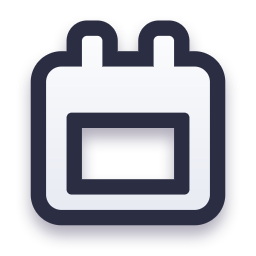
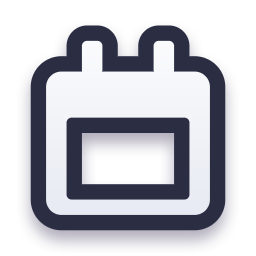
Icônes, blasons et badges centrés dans leur image ; son coupé en quittant l'appli (iOS Custom) ; consignes d'export iOS renforcées
Claude-Session: https://claude.ai/code/session_01GjF5pVKpWLsxsJrgQmasFX

diff --git a/Assets/Bascule/Scripts/Core/UiArt.cs b/Assets/Bascule/Scripts/Core/UiArt.cs
@@ -138,7 +138,30 @@ namespace Bascule.Core
         /// </summary>
         public static Shape Fit(Shape s, int n, float extent)
         {
-            float x0 = float.MaxValue, y0 = float.MaxValue, x1 = float.MinValue, y1 = float.MinValue;
+            if (!Bounds(s, n, out float x0, out float y0, out float x1, out float y1)) return s;
+            float c = n * 0.5f, mx = (x0 + x1) * 0.5f, my = (y0 + y1) * 0.5f;
+            float k = extent / Math.Max(x1 - x0, y1 - y0);
+            var d = s.D;
+            return new Shape((x, y) => d(mx + (x - c) / k, my + (y - c) / k) * k, 0, 0, n, n);
+        }
+
+        /// <summary>
+        /// Déplace une forme (même taille) pour que sa boîte réelle soit pile au centre de l'image n × n : posée dans une
+        /// pastille ronde ou un bouton, l'icône est au milieu (avant : la couronne, l'étoile, le calendrier étaient trop
+        /// hauts, le cœur trop bas, le film et le haut-parleur décalés à droite…).
+        /// </summary>
+        /// <param name="outline">Épaisseur du contour dessiné autour : c'est l'ensemble forme + contour qui est centré.</param>
+        public static Shape Centered(Shape s, int n, float outline = 0f)
+        {
+            if (!Bounds(outline > 0f ? s.Grow(outline) : s, n, out float x0, out float y0, out float x1, out float y1)) return s;
+            float dx = n * 0.5f - (x0 + x1) * 0.5f, dy = n * 0.5f - (y0 + y1) * 0.5f;
+            return Math.Abs(dx) < 0.01f && Math.Abs(dy) < 0.01f ? s : s.Move(dx, dy);
+        }
+
+        /// <summary>Boîte réelle d'une forme dans l'image n × n, mesurée sur une grille (les boîtes des formes combinées sont trop larges).</summary>
+        static bool Bounds(Shape s, int n, out float x0, out float y0, out float x1, out float y1)
+        {
+            x0 = y0 = float.MaxValue; x1 = y1 = float.MinValue;
             float step = n / 256f;
             for (float y = 0; y <= n; y += step)
                 for (float x = 0; x <= n; x += step)
@@ -147,12 +170,14 @@ namespace Bascule.Core
                         if (x < x0) x0 = x; if (x > x1) x1 = x;
                         if (y < y0) y0 = y; if (y > y1) y1 = y;
                     }
-            if (x1 < x0) return s;
-            float c = n * 0.5f, mx = (x0 + x1) * 0.5f, my = (y0 + y1) * 0.5f;
-            float k = extent / Math.Max(x1 - x0, y1 - y0);
-            var d = s.D;
-            return new Shape((x, y) => d(mx + (x - c) / k, my + (y - c) / k) * k, 0, 0, n, n);
+            return x1 >= x0;
         }
+
+        /// <summary>
+        /// Icônes qui gardent leur place dans l'image : le triangle « lecture », centré à l'œil sur son centre de gravité
+        /// (et qui sert de repère à la roue), et la main du tutoriel, dont le doigt montre un endroit précis.
+        /// </summary>
+        public static bool KeepsOwnCenter(Icon icon) => icon == Core.Icon.Play || icon == Core.Icon.Hand;
 
         /// <summary>Icône blanche cernée de sombre, avec ombre portée (128 px).</summary>
         public static Raster DrawIcon(Icon icon, int n = 128)
@@ -332,11 +357,28 @@ namespace Bascule.Core
             }
             // Icônes du menu du bas : même taille de dessin et centre exact, pour un rang parfaitement aligné.
             if (Array.IndexOf(MenuIcons, icon) >= 0) s = Fit(s, n, MenuGlyph * n);
+            else if (!KeepsOwnCenter(icon)) s = Centered(s, n, 6 * u);
             img.Fill(s.Grow(6 * u), Ink);
             img.Fill(s, Paint.Linear(Rgba.White, 0, n, Rgba.FromHex("#E3E6F0"), 0, 0));
             Toon.DropShadow(img, 0, -(int)(4 * u), (int)(3 * u) + 1, 0.35f);
             FadeBorder(img, Math.Max(2, n / 64));
             return img;
+        }
+
+        /// <summary>
+        /// Décale le dessin (en pixels entiers) pour que sa partie opaque soit au centre de l'image : un badge, un blason
+        /// ou un tas de pièces posé dans une pastille ou une case est au milieu (les blasons Challenger et Espoir étaient
+        /// 5 % trop bas, le tas de six pièces 5 % trop haut).
+        /// </summary>
+        static Raster CenterContent(Raster img)
+        {
+            int w = img.Width, h = img.Height, x0 = w, y0 = h, x1 = -1, y1 = -1;
+            for (int y = 0; y < h; y++)
+                for (int x = 0; x < w; x++)
+                    if (img.Pixels[y * w + x].a > 200) { if (x < x0) x0 = x; if (x > x1) x1 = x; if (y < y0) y0 = y; if (y > y1) y1 = y; }
+            if (x1 < 0) return img;
+            int dx = (int)Math.Round((w - 1 - x0 - x1) * 0.5f), dy = (int)Math.Round((h - 1 - y0 - y1) * 0.5f);
+            return dx == 0 && dy == 0 ? img : img.Offset(dx, dy);
         }
 
         /// <summary>
@@ -468,6 +510,7 @@ namespace Bascule.Core
             }
             foreach (var (x, y, r) in spots) Coin(img, x * n, y * n, r * n);
             Toon.DropShadow(img, 0, -(int)(n * 0.02f), (int)(n * 0.02f) + 1, 0.3f);
+            img = CenterContent(img);
             FadeBorder(img, Math.Max(2, n / 64));
             return img;
         }
@@ -512,6 +555,8 @@ namespace Bascule.Core
             img.Fill(Shape.Arc(mx, my, n * 0.095f, 0f, 360f, n * 0.012f), CoinEdge);
             img.Fill(StarShape(mx, my, n * 0.075f), Rgba.FromHex("#FFF3B0"), 1.2f);
             Toon.DropShadow(img, 0, -(int)(n * 0.02f), (int)(n * 0.02f) + 1, 0.3f);
+            img = CenterContent(img);
+            FadeBorder(img, Math.Max(2, n / 64));
             return img;
         }
 
@@ -683,6 +728,7 @@ namespace Bascule.Core
             }
             Toon.DropShadow(img, 0, -(int)(n * 0.02f), (int)(n * 0.02f) + 1, 0.32f);
             if (N != n) img = img.Resized(n, n);
+            img = CenterContent(img);
             FadeBorder(img, Math.Max(2, n / 64));
             return img;
         }
@@ -715,6 +761,8 @@ namespace Bascule.Core
             for (int i = -1; i <= 1; i++)
                 img.Fill(Shape.Circle(c + i * n * 0.08f, n * 0.165f, n * 0.022f), i < 1 ? Rgba.FromHex("#7C5CFF") : Rgba.FromHex("#D9D2EE"));
             Toon.DropShadow(img, 0, -(int)(n * 0.02f), (int)(n * 0.02f) + 1, 0.3f);
+            img = CenterContent(img);
+            FadeBorder(img, Math.Max(2, n / 64));
             return img;
         }
 

diff --git a/Assets/Bascule/Scripts/Editor/IosBuildPost.cs b/Assets/Bascule/Scripts/Editor/IosBuildPost.cs
@@ -92,18 +92,20 @@ namespace Bascule.EditorTools
         }
 
         /// <summary>
-        /// 1.5 : Unity arrête sa boucle d'affichage dès que l'appli n'est plus active (Centre de contrôle, notification
-        /// tirée), même en mode « Custom ». Un duel en direct se figeait alors : plus rien n'était envoyé, et le relais
-        /// coupe au bout de 10 s. On la laisse tourner tant que l'appli est seulement « inactive » (toujours à l'écran) ;
-        /// en arrière-plan elle s'arrête comme avant (iOS interdit d'y dessiner).
-        /// Si le texte attendu n'est pas trouvé (autre version de Unity), on ne touche à rien et on le dit.
-        /// </summary>
-        /// <summary>
-        /// En mode « Custom » sans cette retouche, le jeu ne tourne plus du tout quand l'appli devient inactive : les
-        /// sorties ne seraient plus enregistrées à temps. Erreur bien visible : ne pas envoyer ce build, prévenir Claude.
+        /// En mode « Custom » sans la retouche ci-dessous, le jeu ne tourne plus du tout quand l'appli devient inactive :
+        /// les sorties ne seraient plus enregistrées à temps. Erreur bien visible : ne pas envoyer ce build, prévenir Claude.
         /// </summary>
         const string NotPatched = "BASCULE : NE PAS ENVOYER CE BUILD. La retouche de la boucle d'affichage n'a pas pu être appliquée (autre version de Unity ?) : envoyer une capture à Claude";
 
+        /// <summary>
+        /// 1.5 : Unity arrête sa boucle d'affichage dès que l'appli n'est plus active (Centre de contrôle, notification
+        /// tirée), même en mode « Custom ». Un duel en direct se figeait alors : plus rien n'était envoyé, et le relais
+        /// coupe au bout de 10 s. On la laisse tourner tant que l'appli est seulement « inactive » (toujours à l'écran) ;
+        /// en arrière-plan elle s'arrête comme avant (iOS interdit d'y dessiner). Concerne la boucle CADisplayLink
+        /// (iPhone sous iOS 16 et moins) ; sous iOS 17 et plus, Unity 6 passe par CAMetalDisplayLink, qui ne vérifie pas
+        /// cet état : le réglage « Custom » suffit.
+        /// Si le texte attendu n'est pas trouvé (autre version de Unity), on ne touche à rien et on le dit.
+        /// </summary>
         static void KeepRunningWhenInactive(string path)
         {
             var file = Path.Combine(path, "Classes", "UnityAppController+Rendering.mm");

diff --git a/Tests/Bascule.Core.Tests/CoreTests.cs b/Tests/Bascule.Core.Tests/CoreTests.cs
@@ -1469,6 +1469,24 @@ namespace Bascule.Core.Tests
         }
 
         [Test]
+        public void EveryIconIsCenteredInItsImage()
+        {
+            // Posée dans une pastille ou un bouton, chaque icône est au milieu (dessin et contour), à un pixel près sur
+            // 128 : sauf le triangle « lecture » (centré à l'œil) et la main du tutoriel (son doigt vise un point).
+            foreach (Icon icon in Enum.GetValues(typeof(Icon)))
+            {
+                if (UiArtist.KeepsOwnCenter(icon)) continue;
+                var img = UiArtist.DrawIcon(icon, 128);
+                int x0 = 999, y0 = 999, x1 = -1, y1 = -1;
+                for (int y = 0; y < 128; y++)
+                    for (int x = 0; x < 128; x++)
+                        if (img.Get(x, y).a > 200) { x0 = Math.Min(x0, x); x1 = Math.Max(x1, x); y0 = Math.Min(y0, y); y1 = Math.Max(y1, y); }
+                Assert.That((x0 + x1) / 2f, Is.EqualTo(63.5f).Within(1.01f), icon + " : décalé à gauche ou à droite");
+                Assert.That((y0 + y1) / 2f, Is.EqualTo(63.5f).Within(1.01f), icon + " : décalé en haut ou en bas");
+            }
+        }
+
+        [Test]
         public void SettingsGearHasEightRoundedTeeth()
         {
             // Roue crantée : 8 dents (on les compte sur un cercle qui passe dans les dents), moyeu évidé au centre.

diff --git a/Assets/Bascule/Scripts/Runtime/UI/Screens.cs b/Assets/Bascule/Scripts/Runtime/UI/Screens.cs
@@ -1971,7 +1971,7 @@ namespace Bascule.UI
                 {
                     var crown = Ui.Icon(holder, Art.IconSprite(Icon.Crown), "Couronne");
                     crown.color = Gold;
-                    Ui.Place(crown.rectTransform, 0.5f, 0, x, h + size + 20, 130, 104);
+                    Ui.Place(crown.rectTransform, 0.5f, 0, x, h + size + 25, 130, 104); // dessin recentré dans son image (1.5) : +5
                     crown.gameObject.AddComponent<Rock>().Angle = 6f;
                 }
                 // Toucher un joueur du podium : défier un ami, ou signaler / bloquer.
@@ -2450,7 +2450,7 @@ namespace Bascule.UI
             Ui.Place(disc.rectTransform, 0.5f, 1, 20, -330, 132, 132);
             var heart = Ui.Icon(disc.transform, Art.IconSprite(Icon.Heart), "Coeur");
             heart.color = Palette.Primary;
-            Ui.Stretch(heart.rectTransform, 22, 24, 22, 20);
+            Ui.Stretch(heart.rectTransform, 22, 22, 22, 22); // cœur recentré dans son image (1.5) : marges égales
             disc.gameObject.AddComponent<Pulse>().Amount = 0.09f;
             Ui.Isolate(disc.gameObject);
             _title = Ui.Title(card.transform, "", 62, Color.white);

diff --git a/Assets/Bascule/Scripts/Runtime/GameApp.cs b/Assets/Bascule/Scripts/Runtime/GameApp.cs
@@ -2880,6 +2880,7 @@ namespace Bascule
             Duel.OnAppResumed(frozen < 0.5f ? 0f : frozen);
             if (_backgroundSince != DateTime.MinValue && (DateTime.UtcNow - _backgroundSince).TotalMinutes > 30) _gamesThisSession = 0;
             _backgroundSince = DateTime.MinValue;
+            AudioListener.pause = false;
             _music?.OnResume();
             // Retour dans l'appli : peut-être un nouveau jour (cadeau, missions).
             NewDayCheck();
@@ -2894,6 +2895,9 @@ namespace Bascule
             _appAway = true;
             _awayFrozen = 0;
             _backgroundSince = DateTime.UtcNow;
+            // 1.5 (iOS « Custom ») : Unity ne coupe plus le son tout seul quand on quitte l'appli ; sans ça, la musique
+            // continuait quelques secondes sur l'écran d'accueil du téléphone. Rétabli dans AppBack.
+            if (!Application.isEditor) AudioListener.pause = true;
             if (Duel.InDuel) Duel.OnAppPaused();
             if (Duel.InMatch) { }
             else if (Session.IsRunning)

diff --git a/Assets/Bascule/Scripts/Runtime/UI/LeagueScreens.cs b/Assets/Bascule/Scripts/Runtime/UI/LeagueScreens.cs
@@ -265,7 +265,7 @@ namespace Bascule.UI
             {
                 var crown = Ui.Icon(row.transform, Art.IconSprite(Icon.Crown), "Couronne");
                 crown.color = Gold;
-                Ui.Place(crown.rectTransform, 0, 0.5f, 154 + face * 0.5f - 34, face * 0.5f - 6, 68, 56, 0, 0.5f);
+                Ui.Place(crown.rectTransform, 0, 0.5f, 154 + face * 0.5f - 34, face * 0.5f - 3, 68, 56, 0, 0.5f); // dessin recentré (1.5) : +3
                 crown.rectTransform.localRotation = Quaternion.Euler(0, 0, 12f);
             }
             string shownName = e.IsMe && string.IsNullOrEmpty(e.Name) ? Loc.Get("lb_you") : string.IsNullOrEmpty(e.Name) ? "-" : e.Name;

diff --git a/Assets/Bascule/Scripts/Runtime/UI/DuelScreens.cs b/Assets/Bascule/Scripts/Runtime/UI/DuelScreens.cs
@@ -829,7 +829,7 @@ namespace Bascule.UI
     /// </summary>
     public sealed class DuelResultScreen : UiScreen
     {
-        const float CardTop = -430f, CardHeight = 560f, ColX = 250f, FaceY = -165f, CrownY = -50f;
+        const float CardTop = -430f, CardHeight = 560f, ColX = 250f, FaceY = -165f, CrownY = -44f; // couronne recentrée dans son image (1.5) : remontée d'autant
 
         sealed class Side
         {

diff --git a/Assets/Bascule/Scripts/Runtime/Game/ArtCache.cs b/Assets/Bascule/Scripts/Runtime/Game/ArtCache.cs
@@ -412,7 +412,7 @@ namespace Bascule
         /// <summary>
         /// À augmenter à chaque modification des dessins (Core/*Art*.cs) : les images en cache sont alors redessinées.
         /// </summary>
-        public const int ArtVersion = 26;
+        public const int ArtVersion = 27;
 
         static string _cacheDir;
 

diff --git a/docs/VERSIONS.md b/docs/VERSIONS.md
@@ -50,6 +50,8 @@ Chaque zip porte son numéro (Bascule_V3.zip = version 3.0, affichée dans Régl
   - **Roue crantée** redessinée : dents en trapèze fondues dans le disque (creux arrondis, plus de petites pointes entre les dents). La tache blanche était le « point de lumière » du reflet des boutons, très visible sur ce petit bouton sombre : retiré de tous les boutons, comme le petit trait blanc du verre (niveau, pièces). Le trait de lumière du bouton reste dans le coin non étiré (il s'allongeait sur les grands boutons).
   - **Icônes** : cadenas (on voit le jour sous l'anse, trou de serrure), maison (porte pleine au lieu d'une fente), partage (sans double trait), rejouer (pointe dans le prolongement de l'arc), cadeau (nœud à deux boucles), sac de la boutique (corps net, jour sous l'anse), épées croisées au milieu des lames (icône du duel et blason Challenger) ; drapeau et flamme n'ont plus le bas coupé ; ombres adoucies jusqu'au bord de l'image au lieu de s'arrêter net.
   - **Images coupées au bord** : blason Légende (couronne et pointe), tas de 6 et 3 pièces, goutte de sueur, tube du niveau (contour sans lissage en haut et en bas). Un test vérifie maintenant qu'aucune icône, aucun blason ni tas de pièces ne touche le bord de son image.
+  - **Icônes au centre de leur pastille** (retour : roue crantée « trop basse » sur la maquette) : chaque icône est maintenant centrée dans son image, dessin et contour compris (`UiArtist.Centered`, test `EveryIconIsCenteredInItsImage`). Avant : couronne, étoile, calendrier trop hauts, cœur trop bas, film, haut-parleur et drapeau décalés. Seuls le triangle « lecture » (centré à l'œil, repère de la roue) et la main du tutoriel gardent leur place. Blasons de ligue, tas de pièces et badges Quête / Semaine aussi recentrés (`CenterContent` : Challenger et Espoir étaient 5 % trop bas). Couronnes posées sur les portraits remontées d'autant. Dans le jeu, la roue crantée était déjà au centre de la face du bouton : c'est la maquette qui la plaçait trop bas (refaite).
+  - **Son en quittant l'appli** : avec le réglage iOS « Custom » de la 1.5, Unity ne coupait plus le son tout seul ; la musique pouvait continuer quelques secondes sur l'écran d'accueil du téléphone. Coupé dans `AppAway`, rétabli dans `AppBack`.
   - **Roue de la chance** : l'ombre était dessinée dans l'image de la roue, donc tournait avec elle (et finissait de travers une fois la roue arrêtée) ; elle est maintenant fixe, sous la roue. La petite roue de l'accueil n'a plus d'ombre qui tourne.
 - **Coffres à rareté** (`Core/Engagement.cs`, écran `ChestScreen`, aperçu `docs/apercu/ecrans_coffre_rarete_1_5.png`) : chaque coffre a une rareté, tirée avant l'ouverture et qui décide du contenu : Commun 60 % (60 à 110 pièces), Rare 25 % (150 à 230), Épique 9 % (280 à 400), Légendaire 6 % (une tête de la boutique + des pièces). On la découvre en tapant : le 1er coup charge le coffre, chaque coup suivant fait monter la rareté d'un cran jusqu'à la vraie (étiquette sous le coffre, lumière, rayons et onde de sa couleur, son plus aigu), puis le coup d'après l'ouvre : 2 coups pour un commun, 5 pour un légendaire. Les chances sont écrites en bas. Pas de faux « presque » (la rareté ne redescend jamais, rien ne fait croire à un meilleur coffre). Le tout premier coffre est au moins rare. Têtes un peu plus rares qu'avant (6 % des coffres au lieu de 8 %), autant de pièces en moyenne.
 - **Bannière de temps en temps** (`docs/PUBS.md`) : la plus petite (320 × 50) en bas de l'écran pendant certaines parties solo (jamais la 1re de chaque lancement, la 2e puis une sur deux, jamais en duel ni après l'achat « sans pubs »), le monde remonte d'un rien pour qu'elle ne touche pas Basile ; pas de pub imposée juste après une partie avec bannière (environ deux fois moins de pubs imposées). Bloc « Banner » à créer dans LevelPlay et à mettre dans `GameApp.AdIds.LevelPlayBanner` (sans lui, pas de bannière). Achats « Retirer les pubs » et pack de départ : « Plus aucune pub imposée ni bannière ».

diff --git a/docs/A_FAIRE_1_5.md b/docs/A_FAIRE_1_5.md
@@ -17,12 +17,16 @@ git pull origin v1.1-poids-pubs-achats
 robocopy "$env:USERPROFILE\Documents\bacule\Assets" "$env:USERPROFILE\Downloads\Bascule_V20.5\Bascule\Assets" /E
 ```
 
-Dans Unity : **Bascule → Configurer le projet** (version 1.5, et nouveau réglage iOS « Behavior in Background : Custom » pour que le duel continue avec le Centre de contrôle), puis build iOS dans `Documents\bacule-ios`. Dans la console, après le build, la ligne **« Bascule : le jeu continue quand le Centre de contrôle est ouvert »** doit apparaître (sinon, envoie-moi une capture).
+Dans Unity : **Bascule → Configurer le projet** (version 1.5, et nouveau réglage iOS « Behavior in Background : Custom » pour que le duel continue avec le Centre de contrôle), puis build iOS dans `Documents\bacule-ios`. Dans la console, après le build, deux lignes doivent apparaître (sinon, envoie-moi une capture) :
+- **« Bascule : le jeu continue quand le Centre de contrôle est ouvert »** ;
+- **« Bascule : SDK dynamiques ajoutés à la cible Unity-iPhone du Podfile »** (InMobi et AppLovin : sans eux, plantage au lancement).
+
+Le build iOS doit **réussir** (pas d'erreur rouge dans la console) avant la copie ci-dessous. Le 14/11, l'envoi « Export iOS 1.5 » était en fait l'ancien export 1.4 recopié (le build Unity n'avait pas abouti) : il ne faut **pas** utiliser un build Codemagic fait à partir de cet envoi. Codemagic refuse maintenant un export ancien (étape « Vérifier l'export »).
 
 ```
 cd "$env:USERPROFILE\Documents\bacule-ios-git"
 git pull origin main
-robocopy "$env:USERPROFILE\Documents\bacule-ios" "$env:USERPROFILE\Documents\bacule-ios-git" /MIR /XD .git Pods build /XF codemagic.yaml .gitattributes
+robocopy "$env:USERPROFILE\Documents\bacule-ios" "$env:USERPROFILE\Documents\bacule-ios-git" /MIR /XD .git Pods build /XF codemagic.yaml .gitattributes .gitignore
 git add -A
 git commit -m "Export iOS 1.5"
 git push origin main
